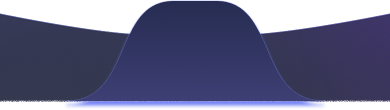
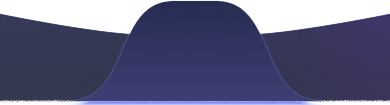
static

diff --git a/lib/views/homepage.dart b/lib/views/homepage.dart
@@ -1,3 +1,4 @@
+import 'package:flutter/cupertino.dart';
 import 'package:flutter/material.dart';
 import 'package:get/get.dart';
 import 'package:google_fonts/google_fonts.dart';
@@ -90,11 +91,56 @@ class _HomePageState extends State<HomePage> {
             ],
           ),
           Positioned(
-            left: -2,
-              bottom: -10,
+            // left: -2,
+            right: 0,
+              bottom: -5,
               // left: -90,
+              // height: Get.height*0.,
               width: Get.width*1,
-              child: Image.asset('assets/images/bottomnavbar.png',)),
+              child: Stack(
+                children: [
+                  Container(
+                      child: Image.asset('assets/images/bottomnavbar.png',fit: BoxFit.cover,)),
+                  Positioned(
+                    left: 20,
+                    bottom: 20,
+                    child: IconButton(onPressed: (){}, icon: Icon(CupertinoIcons.location_solid,color: Colors.white,size: Get.width*0.1,)
+                    ),
+                  ),
+                  Positioned(
+                    right: 20,
+                    bottom: 20,
+                    child: IconButton(onPressed: (){}, icon: Icon(CupertinoIcons.list_bullet,color: Colors.white,size: Get.width*0.1,)
+                    ),
+                  ),
+                  Positioned(
+                    right: Get.width*0.42,
+                    bottom: 22,
+                    child: Container(
+                      decoration: BoxDecoration(
+                        shape: BoxShape.circle,
+                        border: Border.all(color: Color.fromRGBO(53,57,105,1),width: 4),
+                        boxShadow: [
+                          BoxShadow(
+                            color: Colors.white.withOpacity(0.2),
+                            blurRadius: 10,
+                            spreadRadius: 0.1,
+                            offset: Offset(-4, -5)
+                          )
+                        ]
+                      ),
+                      child: CircleAvatar(
+                        radius: 30,
+
+                        backgroundColor: Colors.white,
+                        child: IconButton(
+                            onPressed: (){}, icon: Icon(CupertinoIcons.add,color:Colors.deepPurple ,size: Get.width*0.06,)
+                        ),
+                      ),
+                    ),
+                  ),
+                ],
+              )),
           // Center(
           //   // child: isLoading
           //   //     ? const CircularProgressIndicator(color: Colors.white) // Loading indicator
